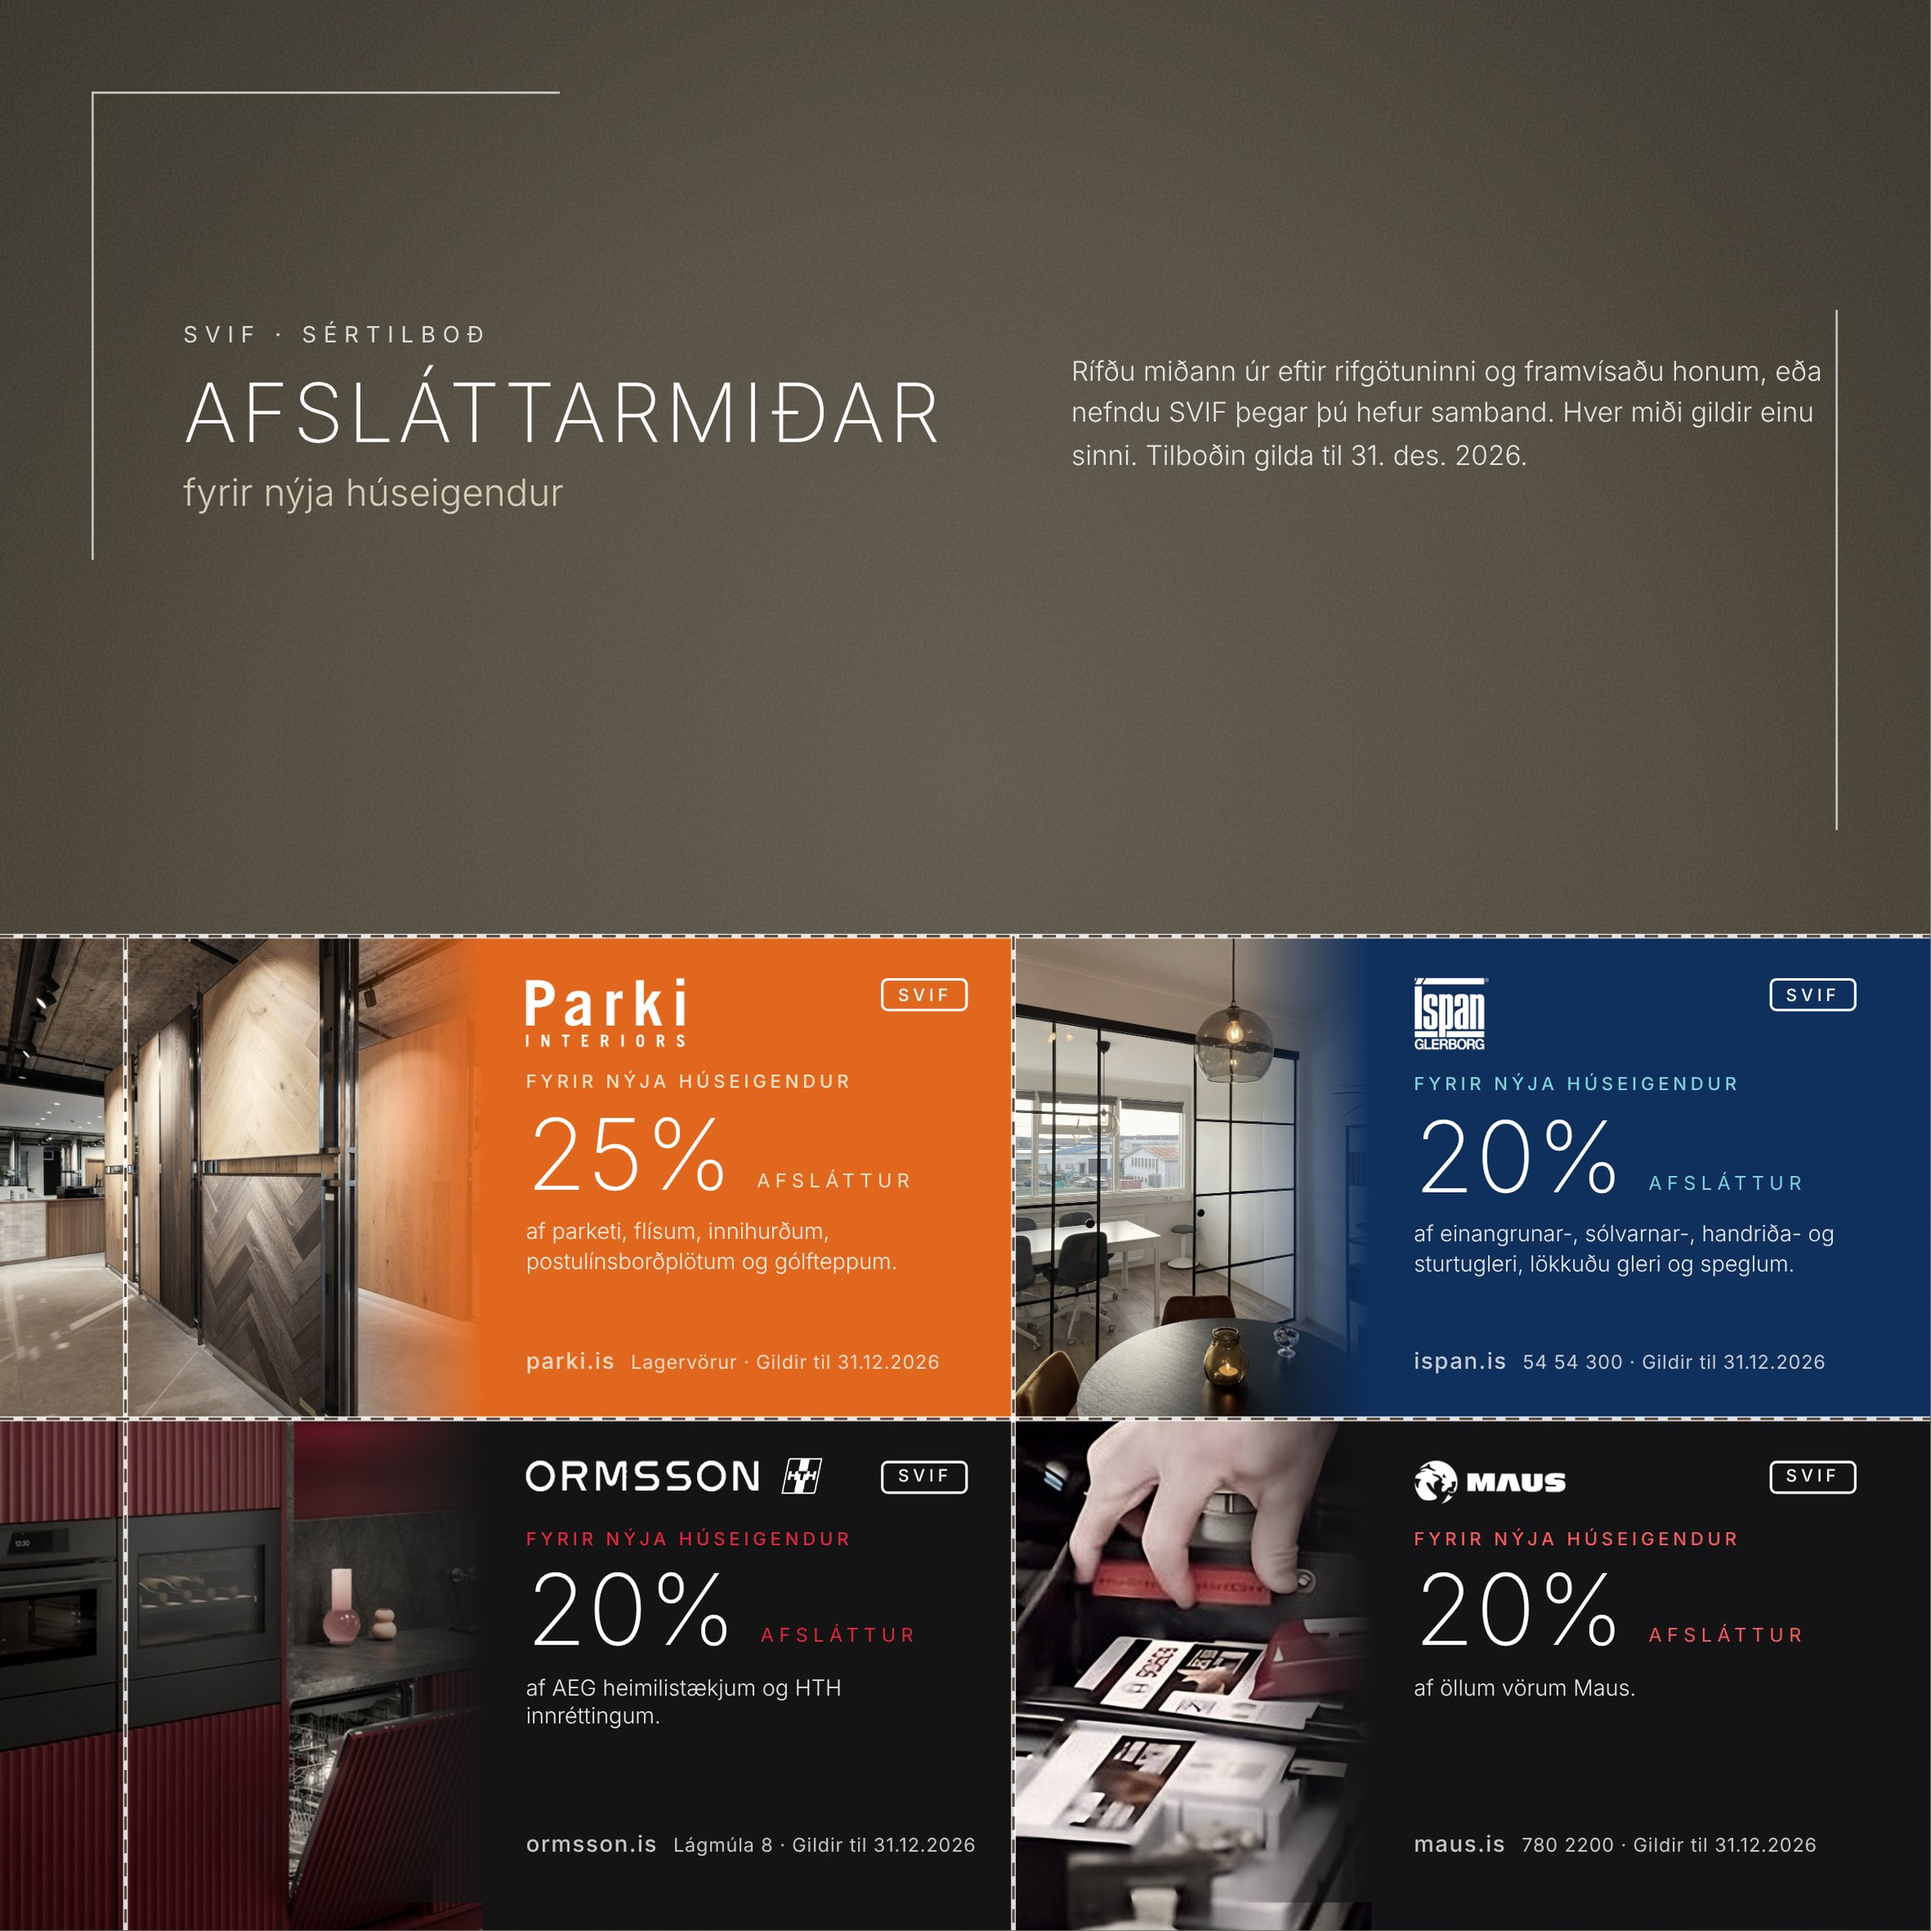
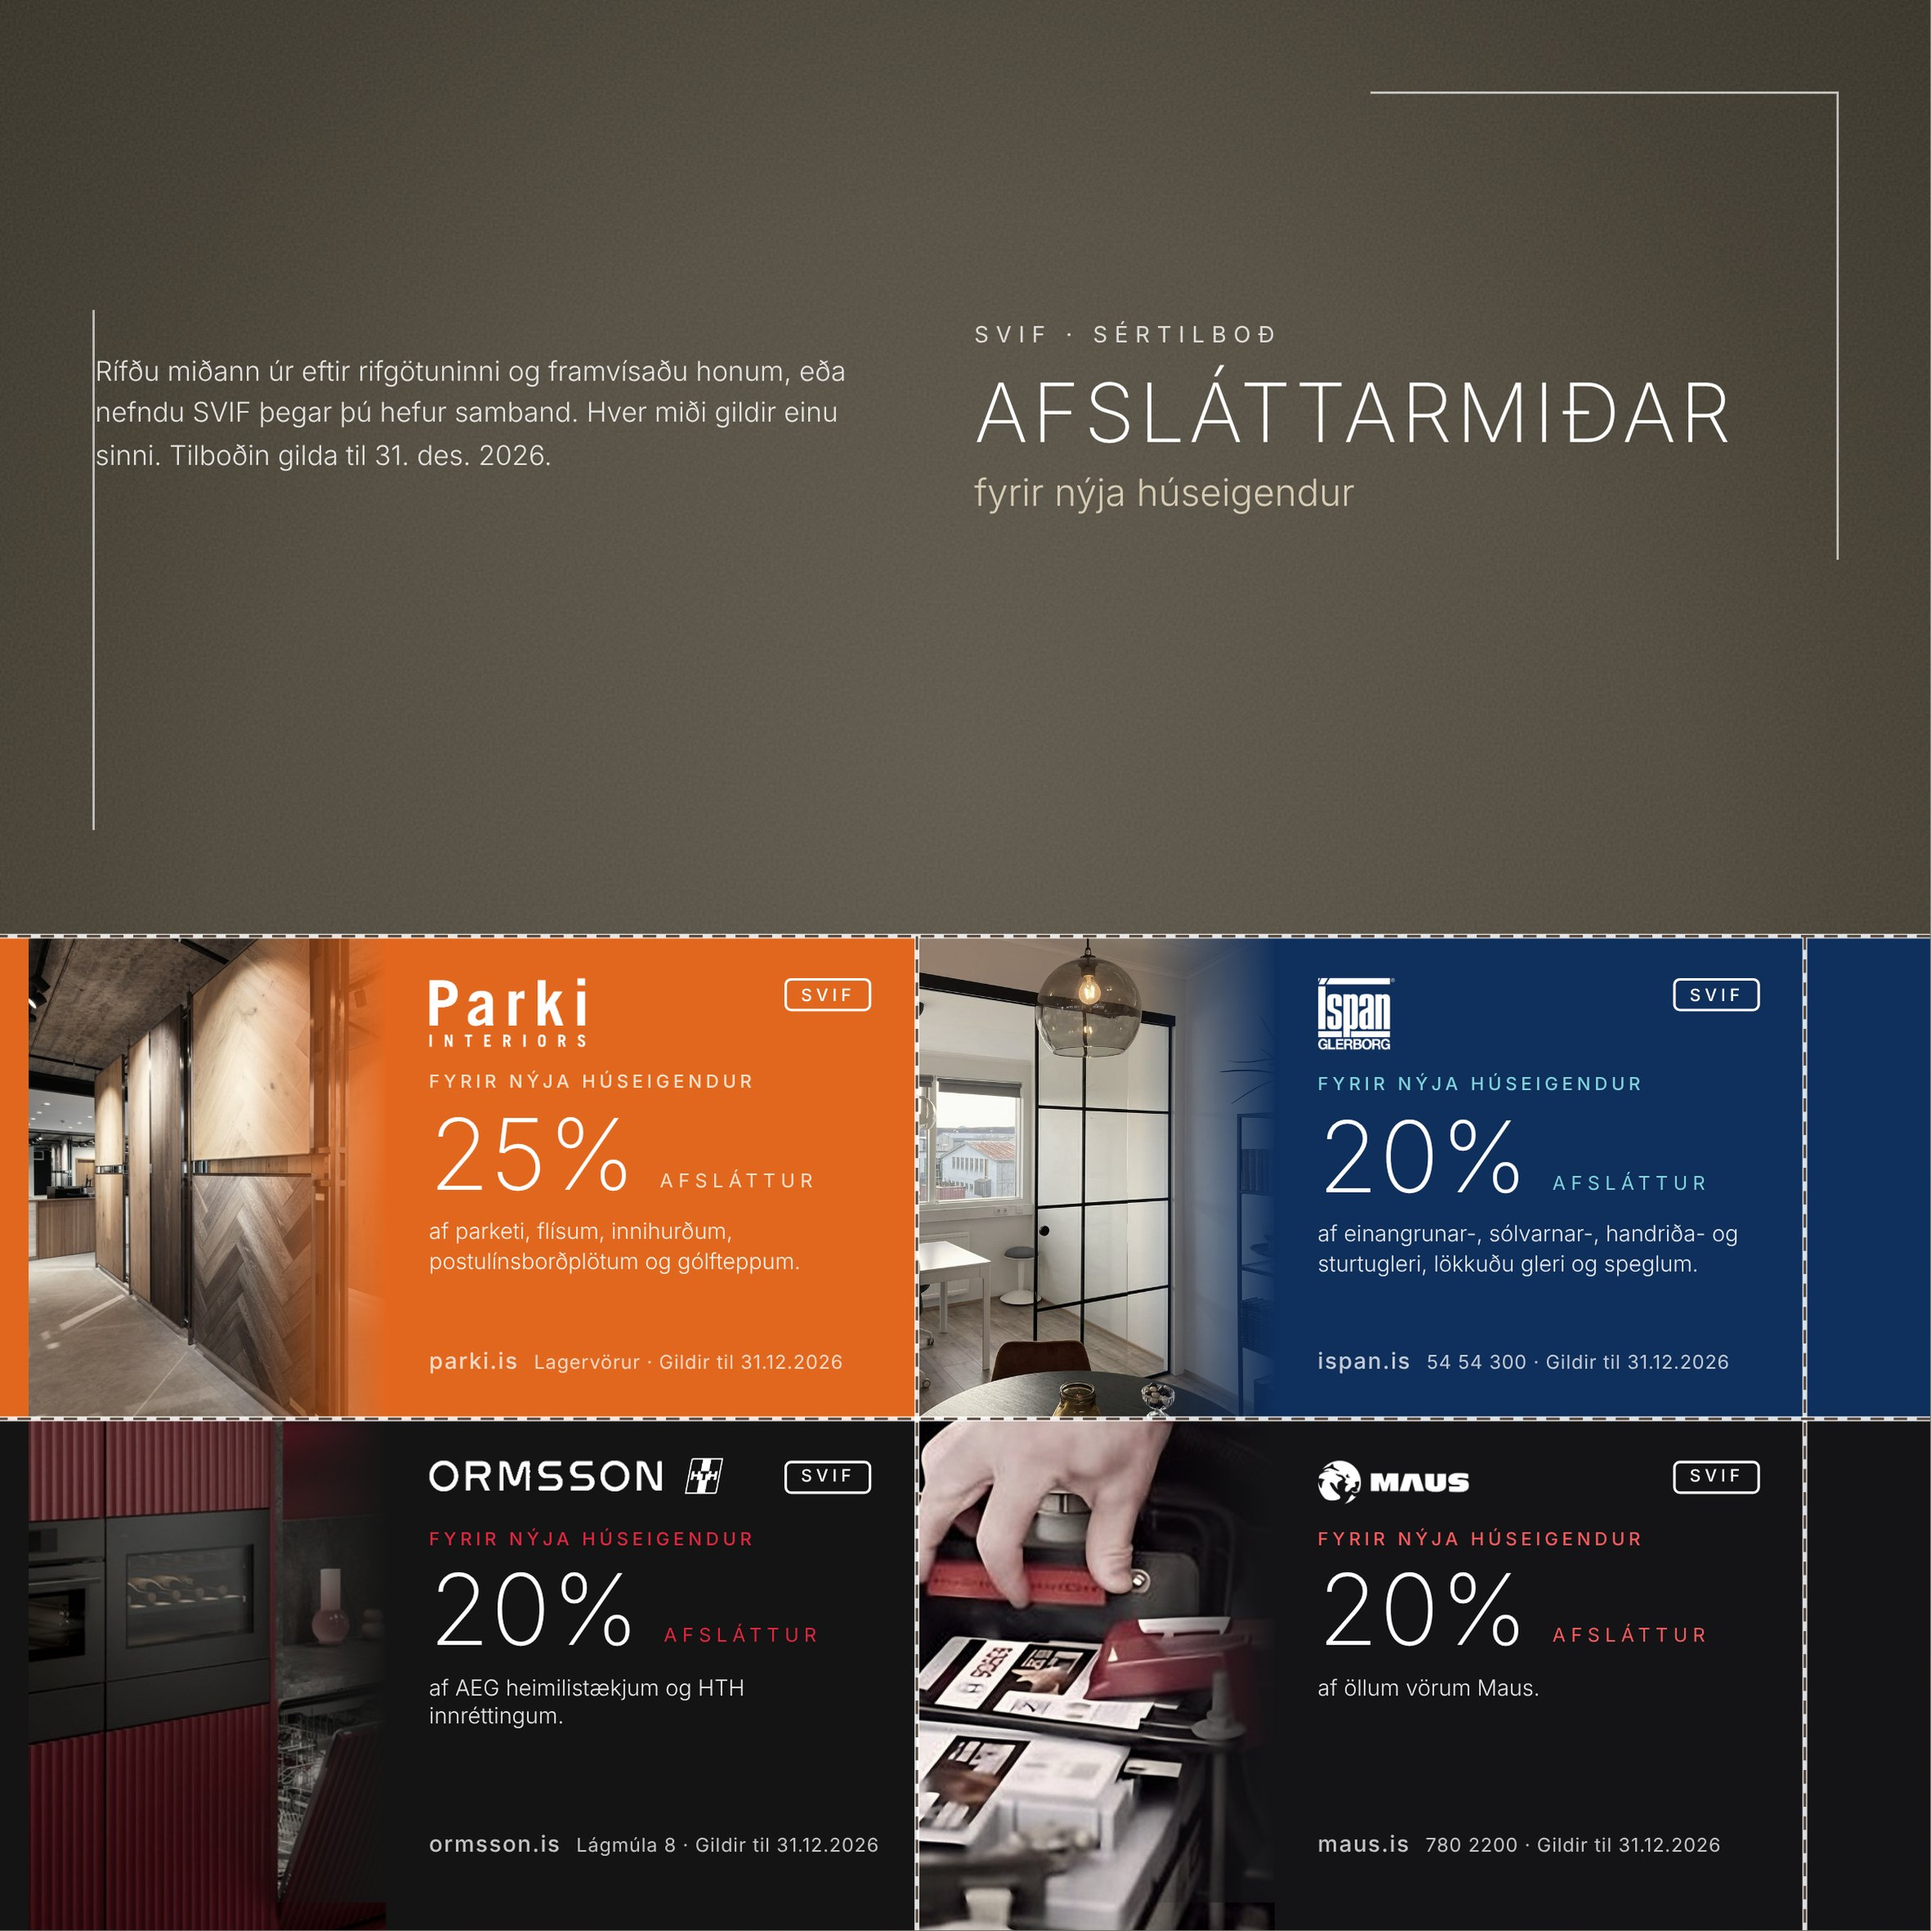
SVIF bæklingur: RÓM Verk á bls. 16; aftast Af hverju SVIF, miðar (speglaðir, vinstri síða), auð síða, Kærar þakkir
Claude-Session: https://claude.ai/code/session_01JAXd2kxjoayDuyNhEKw2yp

diff --git a/svif-baeklingur/vefur/flettibok_src.html b/svif-baeklingur/vefur/flettibok_src.html
@@ -148,9 +148,9 @@ body.flatt .golfskuggi{display:none}
   // 32 síður = 16 blöð. 0 forsíða, 1 yfirlit, 2 afsláttarmiðar, 3–23 auglýsingar, 24–26 laust pláss, 27 Af hverju SVIF,
   // 28 afsláttarmiðar með rifgötun (ekki á kápublaðinu), 29 auð bakhlið miðanna, 30 Kærar þakkir, 31 bakkápa.
   // Hver opna (oddatala + slétt tala) heldur saman skyldum fyrirtækjum; tveggja síðna auglýsingar (Maus, Steindi) byrja á oddatölusíðu.
-  const heiti=['Forsíða', 'Yfirlit', 'Afsláttarmiðar', 'Parki', 'Gardínur', 'HTH', 'Ormsson', 'Straumlind', 'Ísorka', 'Íspan', 'Sticker', 'Maus', 'Maus', 'Gluggavinir', 'TME Gluggar', 'KORA', 'Litamálun', 'Múrbúðin', 'Fagafl', 'HK Lagnir', 'MS Lagnir', 'Lásar.is', 'VÍS', 'Af hverju SVIF', 'Afsláttarmiðar', 'Auð síða', 'RÓM Verk', 'Auð síða', 'Kærar þakkir', 'Bakkápa'];
+  const heiti=['Forsíða', 'Yfirlit', 'Afsláttarmiðar', 'Parki', 'Gardínur', 'HTH', 'Ormsson', 'Straumlind', 'Ísorka', 'Íspan', 'Sticker', 'Maus', 'Maus', 'Gluggavinir', 'TME Gluggar', 'RÓM Verk', 'KORA', 'Litamálun', 'Múrbúðin', 'Fagafl', 'HK Lagnir', 'MS Lagnir', 'Lásar.is', 'VÍS', 'Af hverju SVIF', 'Afsláttarmiðar', 'Auð síða', 'Kærar þakkir', 'Auð síða', 'Bakkápa'];
   // Þema hverrar opnu, eftir flettingu (opna k sýnir síður 2k-1 og 2k).
-  const thema={1:'Yfirlit & afsláttarmiðar',2:'Gólf & gardínur',3:'Eldhús & tæki',4:'Rafmagn & orka',5:'Gler & filmur',6:'Eldvarnir',7:'Gluggar & ísetning',8:'Þjónusta & málun',9:'Múr, málun & smíði',10:'Lagnir',11:'Lásar & tryggingar',12:'Um SVIF & afsláttarmiðar',13:'Rafvirki',14:'Kærar þakkir'};
+  const thema={1:'Yfirlit & afsláttarmiðar',2:'Gólf & gardínur',3:'Eldhús & tæki',4:'Rafmagn & orka',5:'Gler & filmur',6:'Eldvarnir',7:'Gluggar & ísetning',8:'Rafvirki & þjónusta',9:'Málun & múr',10:'Smíði & lagnir',11:'Lagnir & lásar',12:'Tryggingar & um SVIF',13:'Afsláttarmiðar',14:'Kærar þakkir'};
   const S=heiti.length, N=S/2;
   const bok=document.getElementById('bok');
   const mynd=i=>`sidur/sida_${String(i).padStart(2,'0')}.jpg`;
@@ -172,12 +172,12 @@ body.flatt .golfskuggi{display:none}
 
   // Efnisyfirlit: hvert fyrirtæki einu sinni, með fyrstu síðu þess (1-tölusett eins og í prentun)
   const skra=document.getElementById('skra'); const skraHn=[];
-  const augl=[3,4,5,6,7,8,9,10,11,12,13,14,15,16,17,18,19,20,21,22,26];
+  const augl=[3,4,5,6,7,8,9,10,11,12,13,14,15,16,17,18,19,20,21,22,23];
   for(const s of augl){
     if(heiti[s]===heiti[s-1]) continue;
     const li=document.createElement('li'); const b=document.createElement('button'); b.type='button';
     const tvo=heiti[s+1]===heiti[s];
-    const bn=s<27?s+1:s; b.innerHTML=`<b>${heiti[s]}</b><i>${tvo?`bls. ${bn}–${bn+1}`:`bls. ${bn}`}</i>`;
+    const bn=s+1; b.innerHTML=`<b>${heiti[s]}</b><i>${tvo?`bls. ${bn}–${bn+1}`:`bls. ${bn}`}</i>`;
     b.dataset.sida=s; b.addEventListener('click',()=>{ if(busy)return; flett=Math.ceil(s/2); stada(); });
     li.appendChild(b); skra.appendChild(li); skraHn.push(b);
   }
@@ -210,7 +210,7 @@ body.flatt .golfskuggi{display:none}
     else {
       const a=2*flett-1, b=2*flett;
       nafn=heiti[a]===heiti[b]?heiti[a]:heiti[a]+' · '+heiti[b];
-      const pn=i=>i<27?i+1:(i===27?0:i); bls=(thema[flett]?thema[flett]+' · ':'')+(pn(a)&&pn(b)?`bls. ${pn(a)}–${pn(b)} af 29`:`bls. ${pn(a)||pn(b)} af 29`);
+      const pn=i=>i<28?i+1:(i===28?0:i); bls=(thema[flett]?thema[flett]+' · ':'')+(pn(a)&&pn(b)?`bls. ${pn(a)}–${pn(b)} af 29`:`bls. ${pn(a)||pn(b)} af 29`);
     }
     teljari.innerHTML='<span class="nafn">'+nafn+'</span><small>'+bls+'</small>';
     afturHn.disabled=flett===0; framHn.disabled=flett===N;

diff --git a/svif-baeklingur/mockup/mockup.html b/svif-baeklingur/mockup/mockup.html
@@ -19,8 +19,8 @@ body{background:linear-gradient(180deg,#E6E5EF 0%,#E2DDDF 38%,#D6CBBC 100%)}
  <div class="hlutur" style="left:1500px;top:420px;width:1240px;height:620px;transform:rotateZ(5deg)">
    <div class="sk"></div>
    <div class="s" style="background:#F4EFE7;transform:translate(0,7px);border-radius:2px"></div>
-   <div style="position:absolute;left:0;top:0;width:620px;height:620px;background-image:url(../flett/sidur/sida_23.jpg);background-size:cover"></div>
-   <div style="position:absolute;left:620px;top:0;width:620px;height:620px;background-image:url(../flett/sidur/sida_24.jpg);background-size:cover"></div>
+   <div style="position:absolute;left:0;top:0;width:620px;height:620px;background-image:url(../flett/sidur/sida_01.jpg);background-size:cover"></div>
+   <div style="position:absolute;left:620px;top:0;width:620px;height:620px;background-image:url(../flett/sidur/sida_02.jpg);background-size:cover"></div>
    <div class="s" style="background:linear-gradient(90deg,rgba(0,0,0,0) 40%,rgba(0,0,0,.32) 49.4%,rgba(255,255,255,.12) 50.4%,rgba(0,0,0,0) 58%)"></div>
  </div>
 </div></div></body></html>

diff --git a/svif-baeklingur/assemble_all.py b/svif-baeklingur/assemble_all.py
@@ -5,14 +5,14 @@ img = lambda i: os.path.join(F, f'img-{i:03d}.jpg')
 ad = lambda i: os.path.join(D, 'out', 'ads', f'p{i:02d}.jpg')
 pdf = lambda n: os.path.join(D, 'out', n + '.pdf')
 ny = lambda n: os.path.join(D, 'out', 'ads', n + '.jpg')
-PAGES = [  # (heiti, uppruni) – 29 síður (endanlegur síðufjöldi ákveðinn síðar)
+PAGES = [  # (heiti, uppruni) – 29 síður
     ('Forsíða', ny('kapa_fram')), ('Yfirlit', os.path.join(D,'out','d_yfirlit.jpg')), ('Afsláttarmiðar (kynning)', os.path.join(D,'out','afslaettir_dark.jpg')),
     ('Parki', img(5)), ('Gardínur', ad(20)), ('HTH', img(9)), ('Ormsson AEG', img(10)), ('Straumlind', img(4)), ('Ísorka', img(13)),
     ('Íspan', img(6)), ('Sticker', img(7)), ('Maus', ad(11)), ('Maus', ad(12)), ('Gluggavinir', img(17)), ('TME Gluggar', ny('tme')),
-    ('KORA', ad(8)), ('Litamálun', ny('litamalun')), ('Múrbúðin', img(19)), ('Fagafl', ny('fagafl')), ('HK Lagnir', ad(15)), ('MS Lagnir', ny('mslagnir')),
-    ('Lásar.is', img(16)), ('VÍS', ad(25)),
-    ('Af hverju SVIF', os.path.join(D,'out','umsvif_dark.jpg')), ('Afsláttarmiðar', os.path.join(D,'out','midar_thema_framhlid.jpg')), ('Auð síða (bakhlið miðanna)', os.path.join(D,'out','d_aud.jpg')),
-    ('RÓM Verk', img(23)), ('Kærar þakkir', os.path.join(D,'out','d_thakkir.jpg')), ('Bakkápa', ny('kapa_bak')),
+    ('RÓM Verk', img(23)), ('KORA', ad(8)), ('Litamálun', ny('litamalun')), ('Múrbúðin', img(19)), ('Fagafl', ny('fagafl')),
+    ('HK Lagnir', ad(15)), ('MS Lagnir', ny('mslagnir')), ('Lásar.is', img(16)), ('VÍS', ad(25)),
+    ('Af hverju SVIF', os.path.join(D,'out','umsvif_dark.jpg')), ('Afsláttarmiðar', os.path.join(D,'out','midar_thema_framhlid.jpg')),
+    ('Auð síða', os.path.join(D,'out','d_aud.jpg')), ('Kærar þakkir', os.path.join(D,'out','d_thakkir.jpg')), ('Bakkápa', ny('kapa_bak')),
 ]
 assert len(PAGES) == 29
 SZ = 200 * 72 / 25.4; b = 3 * 72 / 25.4

diff --git a/svif-baeklingur/midasida_thema.py b/svif-baeklingur/midasida_thema.py
@@ -17,13 +17,17 @@ def tile(key, x, y, el, er, eb):
 
 html = m2.midar()
 a = html.index('<div class="tile"'); b = html.index('<svg class="perf"')
-tiles = (tile('parki', m2.X0, m2.Y0, m2.X0, 0, 0) + tile('ispan', m2.X1, m2.Y0, 0, m2.B, 0) +
-         tile('ormsson', m2.X0, m2.Y1, m2.X0, 0, m2.B) + tile('maus', m2.X1, m2.Y1, 0, m2.B, m2.B))
+tiles = (tile('ispan', m2.X0, m2.Y0, m2.X0, 0, 0) + tile('parki', m2.X1, m2.Y0, 0, m2.B, 0) +
+         tile('maus', m2.X0, m2.Y1, m2.X0, 0, m2.B) + tile('ormsson', m2.X1, m2.Y1, 0, m2.B, m2.B))  # speglað: Parki/Ormsson lenda vinstra megin
 css = m.CSS
 for k, (bg, ink, acc, dark) in THEME.items():
     css += (f'#t_{k}{{color:{ink}}}#t_{k} .ey,#t_{k} .sm{{color:{acc}!important}}#t_{k} .lead{{color:{ink}!important;opacity:.9}}'
             f'#t_{k} .foot{{color:{ink}!important;opacity:.75}}#t_{k} .foot b{{color:{ink}!important}}#t_{k} .tag{{border-color:{ink}!important;color:{ink}}}')
 html = html[:a] + tiles + html[b:]
 html = html.replace('</style>', css + '</style>', 1)
+i = html.index('<body>') + len('<body>')
+j = html.index('</div>', html.index('class="grunnur"')) + len('</div>')
+html = html[:j] + '<div class="flip" style="position:absolute;inset:0;transform:scaleX(-1)">' + html[j:].replace('</body>', '</div></body>', 1)
+html = html.replace('</style>', '.flip .mi{transform:scaleX(-1)}.flip>div:not(.tile){transform:scaleX(-1)}</style>', 1)
 open(os.path.join(D, 'midar_thema_framhlid.html'), 'w', encoding='utf-8').write(html)
 print('ok')

diff --git a/svif-baeklingur/dokk.py b/svif-baeklingur/dokk.py
@@ -71,12 +71,12 @@ KAFLAR = [
     ('Gólf & flísar', [('Parki', '4')]),
     ('Gluggar & gler', [('Gardínur', '5'), ('Íspan', '10'), ('Gluggavinir', '14'), ('TME Gluggar', '15')]),
     ('Eldhús & tæki', [('HTH', '6'), ('Ormsson', '7')]),
-    ('Rafmagn & rafbíll', [('Straumlind', '8'), ('Ísorka', '9'), ('RÓM Verk', '27')]),
-    ('Þjónusta & filmur', [('sticker.is', '11'), ('KORA', '16')]),
+    ('Rafmagn & rafbíll', [('Straumlind', '8'), ('Ísorka', '9'), ('RÓM Verk', '16')]),
+    ('Þjónusta & filmur', [('sticker.is', '11'), ('KORA', '17')]),
     ('Eldvarnir', [('Maus', '12–13')]),
-    ('Múr, málun & smíði', [('Litamálun', '17'), ('Múrbúðin', '18'), ('Fagafl', '19')]),
-    ('Bað & lagnir', [('HK Lagnir', '20'), ('MS Lagnir', '21')]),
-    ('Lásar & tryggingar', [('Lásar.is', '22'), ('VÍS', '23')]),
+    ('Múr, málun & smíði', [('Litamálun', '18'), ('Múrbúðin', '19'), ('Fagafl', '20')]),
+    ('Bað & lagnir', [('HK Lagnir', '21'), ('MS Lagnir', '22')]),
+    ('Lásar & tryggingar', [('Lásar.is', '23'), ('VÍS', '24')]),
 ]
 def yfirlit():
     cols = ''
